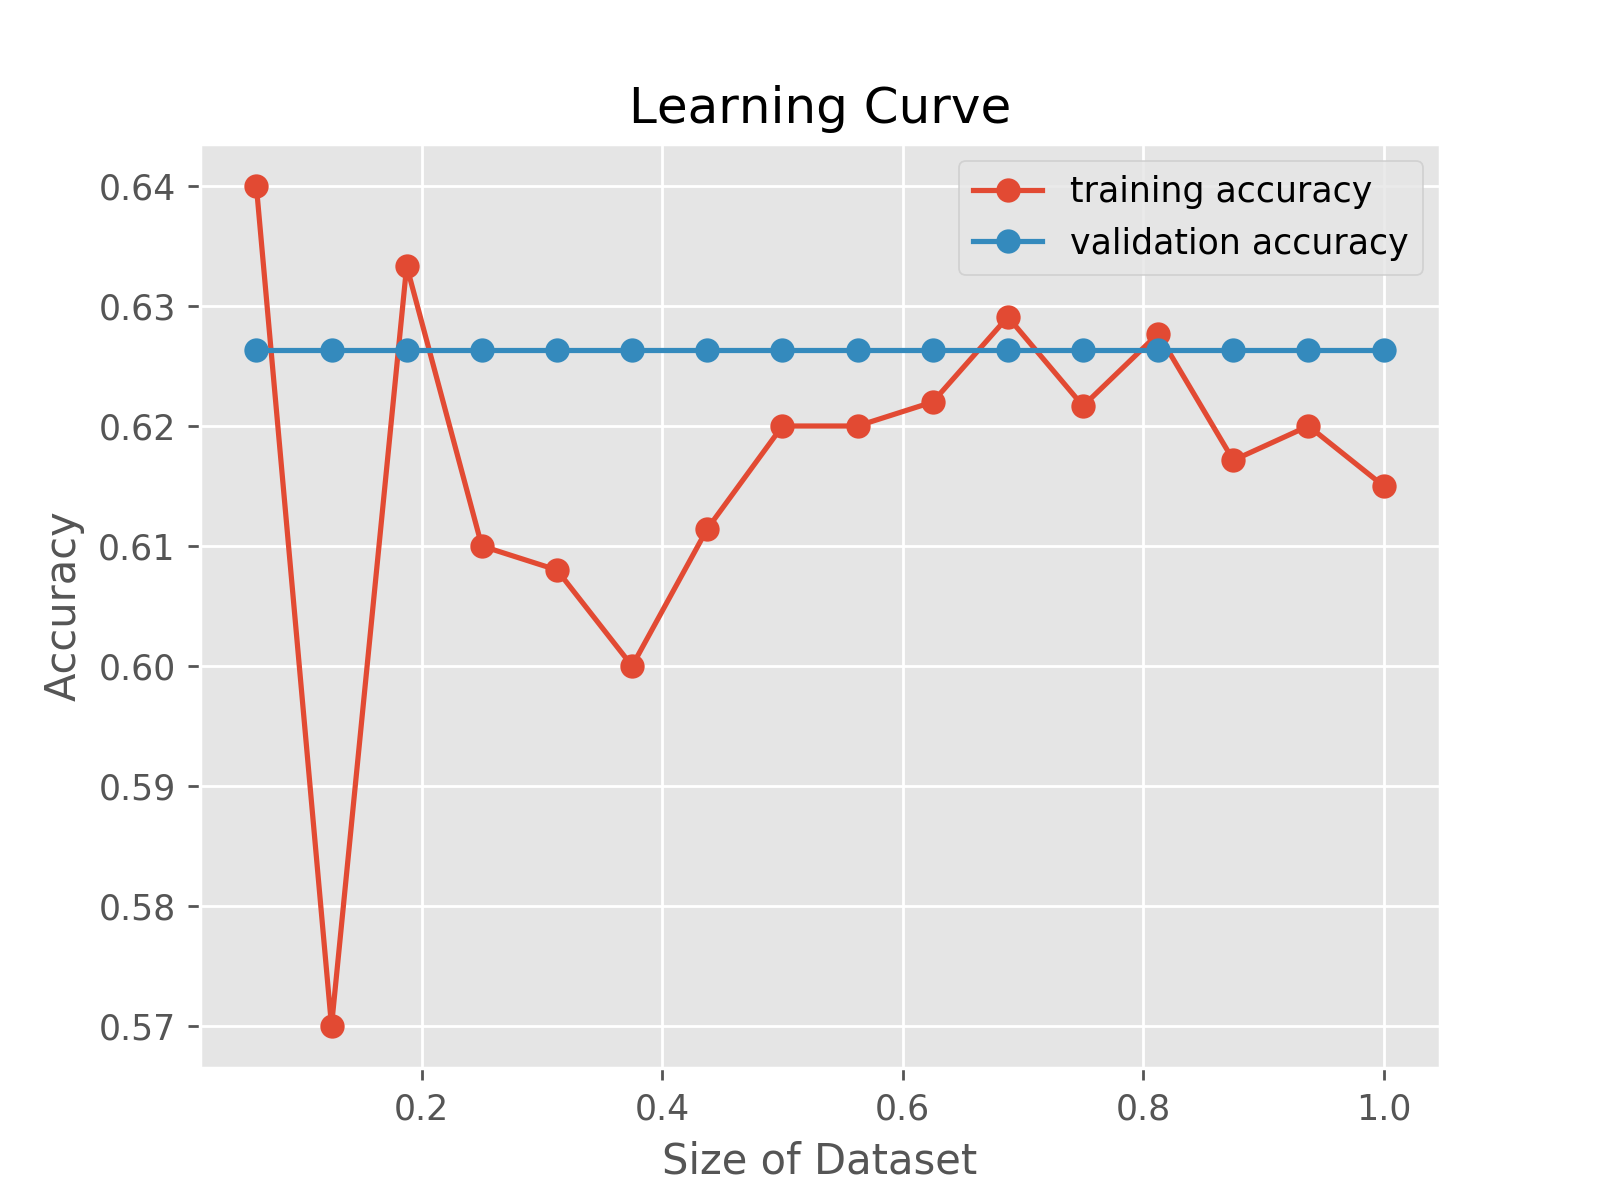
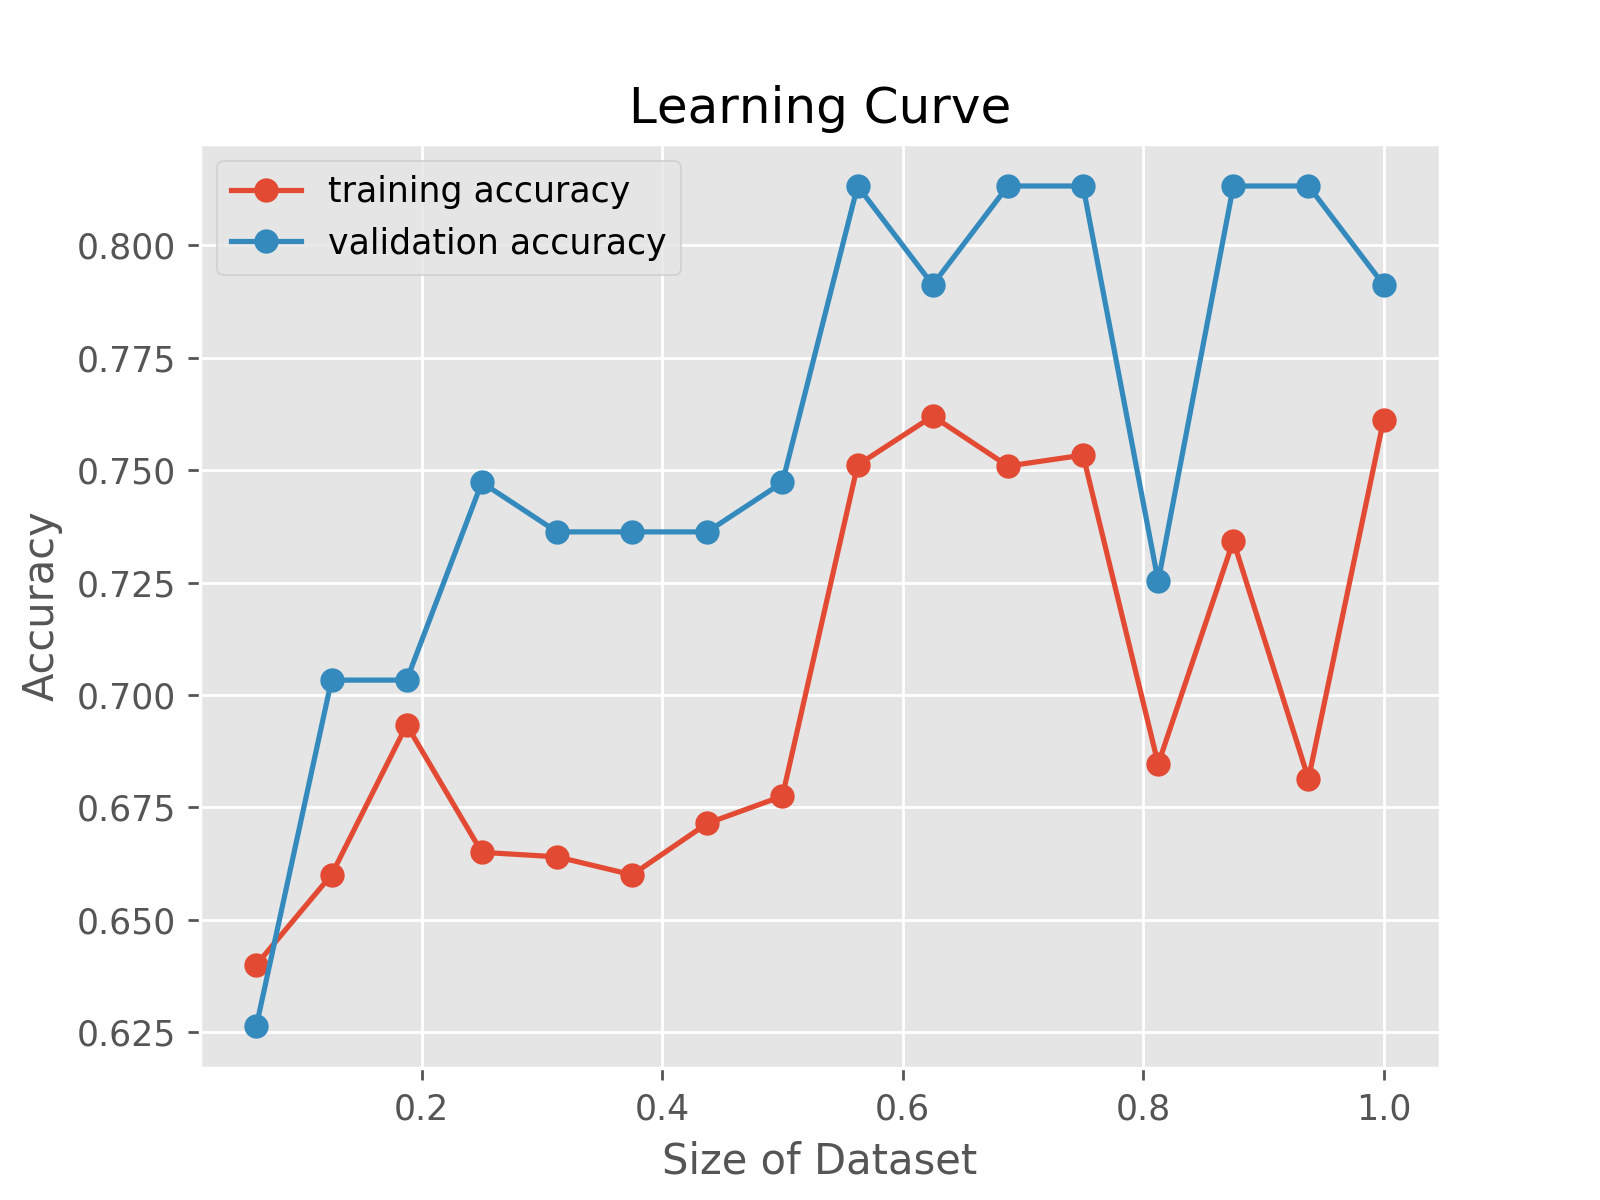
all

diff --git a/main.py b/main.py
@@ -2,6 +2,8 @@ import pandas as pd
 import numpy as np
 import os
 import matplotlib.pyplot as plt
+import scipy as sp
+from scipy import signal
 from solver import Solver
 from model import FullyConnectedNet
 
@@ -42,7 +44,7 @@ def plot(solver, filename):
     return
 
 
-def plot_solvers(solvers, filename):
+def plot_solvers(solvers, filename, alpha=1, m='-o'):
     plt.subplot(3, 1, 1)
     plt.title('Training loss')
     plt.xlabel('Iteration')
@@ -57,19 +59,71 @@ def plot_solvers(solvers, filename):
 
     plt.subplot(3, 1, 1)
     for s in solvers:
-        plt.plot(s.loss_history, 'o', markersize=4, label=s.name)
+        plt.plot(s.loss_history, 'o', markersize=4, label=s.name, alpha=alpha)
 
     plt.subplot(3, 1, 2)
     for s in solvers:
-        plt.plot(s.train_acc_history, '-o', markersize=4, label=s.name)
+        plt.plot(
+            s.train_acc_history, m, markersize=4, label=s.name, alpha=alpha)
 
     plt.subplot(3, 1, 3)
     for s in solvers:
-        plt.plot(s.val_acc_history, '-o', markersize=4, label=s.name)
+        plt.plot(s.val_acc_history, m, markersize=4, label=s.name, alpha=alpha)
 
     for i in [1, 2, 3]:
         plt.subplot(3, 1, i)
-        plt.legend(loc='upper center', ncol=4)
+        plt.legend(ncol=4)
+    plt.gcf().set_size_inches(9, 12)
+    plt.tight_layout()
+    plt.savefig(os.path.join('./result/', filename), dpi=250)
+    plt.close()
+
+    return
+
+
+def plot_solvers_smooth(solvers, filename, alpha=1, m='-o'):
+    plt.subplot(3, 1, 1)
+    plt.title('Training loss')
+    plt.xlabel('Iteration')
+
+    plt.subplot(3, 1, 2)
+    plt.title('Training accuracy')
+    plt.xlabel('Epoch')
+
+    plt.subplot(3, 1, 3)
+    plt.title('Validation accuracy')
+    plt.xlabel('Epoch')
+
+    plt.subplot(3, 1, 1)
+    for s in solvers:
+        plt.plot(
+            sp.signal.savgol_filter(s.loss_history, 15, 2),
+            'o',
+            markersize=4,
+            label=s.name,
+            alpha=alpha)
+
+    plt.subplot(3, 1, 2)
+    for s in solvers:
+        plt.plot(
+            sp.signal.savgol_filter(s.train_acc_history, 15, 2),
+            m,
+            markersize=4,
+            label=s.name,
+            alpha=alpha)
+
+    plt.subplot(3, 1, 3)
+    for s in solvers:
+        plt.plot(
+            sp.signal.savgol_filter(s.val_acc_history, 15, 2),
+            m,
+            markersize=4,
+            label=s.name,
+            alpha=alpha)
+
+    for i in [1, 2, 3]:
+        plt.subplot(3, 1, i)
+        plt.legend(ncol=4)
     plt.gcf().set_size_inches(9, 12)
     plt.tight_layout()
     plt.savefig(os.path.join('./result/', filename), dpi=250)
@@ -80,9 +134,9 @@ def plot_solvers(solvers, filename):
 
 def problem1():
     data_df = pd.read_csv('titanic.csv')
-    choice = np.random.choice(800, 800, replace=False)
+    mask = np.random.choice(800, 800, replace=False)
     data = data_df.as_matrix()
-    data[:800] = data[:800][choice]
+    data[:800] = data[:800][mask]
     train_acc, val_acc = [], []
     for i in range(1, 17, 1):
         x_train, y_train = data[:int(i * 50), 1:], data[:int(i * 50), 0]
@@ -94,7 +148,7 @@ def problem1():
             'y_val': y_test.astype(int),
         }
 
-        model = FullyConnectedNet([7, 5, 4, 3],
+        model = FullyConnectedNet([10, 10, 10, 10],
                                   input_dim=6,
                                   num_classes=2,
                                   weight_scale=5e-2,
@@ -104,16 +158,16 @@ def problem1():
             data_dict,
             update_rule=OPTIMIZER,
             optim_config={
-                'learning_rate': 0.01,
+                'learning_rate': 0.1,
             },
-            lr_decay=0.95,
-            num_epochs=NUM_EPOCH,
-            batch_size=20,
+            lr_decay=0.98,
+            num_epochs=800,
+            batch_size=10,
             print_every=100,
             verbose=False)
         solver.train()
-        train_acc.append(solver.train_acc_history[-1])
-        val_acc.append(solver.val_acc_history[-1])
+        train_acc.append(solver.check_accuracy(x_train, y_train))
+        val_acc.append(solver.check_accuracy(x_test, y_test))
 
     index = np.array((range(1, 17, 1))) / 16
     plt.plot(index, train_acc, '-o', label='training accuracy')
@@ -188,7 +242,7 @@ def problem3():
         optim_config={
             'learning_rate': 0.01,
         },
-        lr_decay=0.95,
+        lr_decay=0.98,
         num_epochs=NUM_EPOCH,
         batch_size=40,
         print_every=100,
@@ -229,7 +283,7 @@ def problem3():
         optim_config={
             'learning_rate': 0.01,
         },
-        lr_decay=0.95,
+        lr_decay=0.98,
         num_epochs=NUM_EPOCH,
         batch_size=40,
         print_every=100,
@@ -242,6 +296,77 @@ def problem3():
 
 
 def problem4():
+    data_df = pd.read_csv('titanic.csv')
+    col = list(data_df.columns)[1:]
+    solvers = []
+    for i in col:
+        data = data_df.drop(i, axis=1).as_matrix()
+        # print(data_df.drop(i, axis=1).head())
+        x_train, y_train = data[:800, 1:], data[:800, 0]
+        x_test, y_test = data[800:, 1:], data[800:, 0]
+        data = {
+            'X_train': x_train,
+            'y_train': y_train.astype(int),
+            'X_val': x_test,
+            'y_val': y_test.astype(int),
+        }
+
+        model_4 = FullyConnectedNet([3, 3],
+                                    input_dim=5,
+                                    num_classes=2,
+                                    weight_scale=5e-2,
+                                    reg=1e-4)
+        solver_4 = Solver(
+            model_4,
+            data,
+            update_rule=OPTIMIZER,
+            optim_config={
+                'learning_rate': 0.1,
+            },
+            lr_decay=0.98,
+            num_epochs=250,
+            batch_size=20,
+            print_every=100,
+            verbose=False,
+            name='without ' + i)
+        solver_4.train()
+        solvers.append(solver_4)
+
+    data = data_df.as_matrix()
+
+    x_train, y_train = data[:800, 1:], data[:800, 0]
+    x_test, y_test = data[800:, 1:], data[800:, 0]
+
+    data = {
+        'X_train': x_train,
+        'y_train': y_train.astype(int),
+        'X_val': x_test,
+        'y_val': y_test.astype(int),
+    }
+
+    model_ori = FullyConnectedNet([3, 3],
+                                  input_dim=6,
+                                  num_classes=2,
+                                  weight_scale=5e-2,
+                                  reg=1e-4)
+    solver_ori = Solver(
+        model_ori,
+        data,
+        update_rule=OPTIMIZER,
+        optim_config={
+            'learning_rate': 0.1,
+        },
+        lr_decay=0.99,
+        num_epochs=250,
+        batch_size=20,
+        print_every=100,
+        name='original',
+        verbose=False)
+    solver_ori.train()
+    solvers.append(solver_ori)
+
+    plot_solvers_smooth(solvers, 'prob4.png', 0.8, '-')
+
     return
 
 
@@ -326,8 +451,9 @@ def problem6():
 
 
 if __name__ == '__main__':
-    problem1()
+    # problem1()
     # problem2()
     # problem3()
+    problem4()
     # problem5()
     pass
